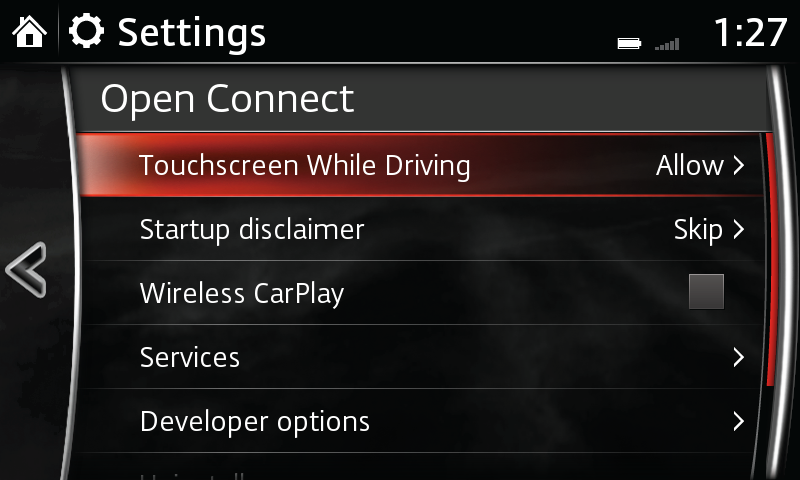
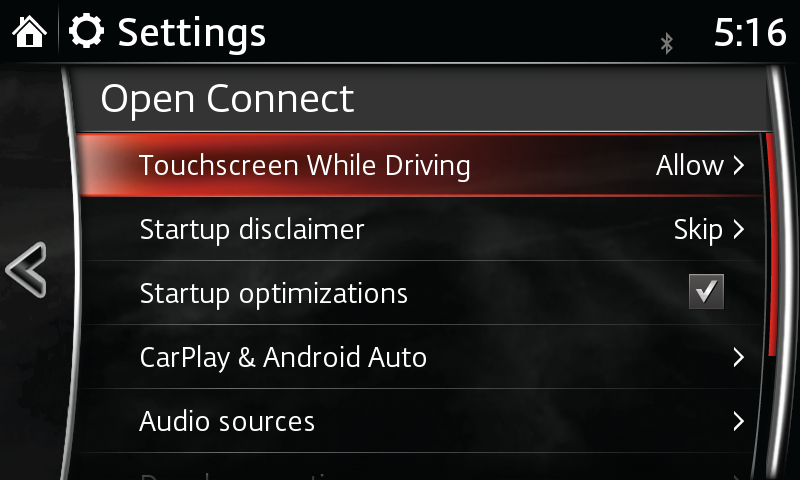
Add verified native 0.3.0-dev.19 Settings screenshots and provenance

diff --git a/docs/javascripts/nav-preview.js b/docs/javascripts/nav-preview.js
@@ -24,32 +24,27 @@
   // Resolve from this file, including on nested pages and GitHub Pages subpaths.
   const assets = new URL("../assets/guide/", document.currentScript.src);
   const entry = ["settings-entry.png", "System tab → Open Connect"];
-  // Reuse reviewed captures only; the dev.19 group lists await native captures.
+  const settings = ["settings.png", "Open Connect settings"];
+  const phone = ["carplay-android-auto.png", "CarPlay & Android Auto"];
   const paths = {
-    "open-connect": [entry],
-    touchscreen: [entry, ["touch.png", "Touchscreen While Driving → Allow"]],
-    disclaimer: [entry, ["warning.png", "Startup disclaimer → Skip"]],
-    "wireless-setup": [entry,
+    "open-connect": [entry, settings],
+    touchscreen: [entry, settings, ["touch.png", "Touchscreen While Driving → Allow"]],
+    disclaimer: [entry, settings, ["warning.png", "Startup disclaimer → Skip"]],
+    "wireless-setup": [entry, settings, phone,
       ["wireless-enable.png", "Wireless CarPlay → Enable"],
       ["wireless-mode.png", "After a full restart: Devices → Wi-Fi → Apple CarPlay"]],
     "wireless-wifi": [["wireless-mode.png", "Devices → Wi-Fi → Apple CarPlay"]],
     "wireless-connect": [["wireless-mode.png", "First choose Apple CarPlay in Devices → Wi-Fi"]],
-    services: [entry],
-    "startup-optimizations": [entry],
-    "phone-connections": [entry],
-    "audio-sources": [entry],
-    "developer-options": [entry, ["developer-options.png", "Developer options"]],
-    uninstall: [entry, ["uninstall.png", "Uninstall confirmation"]],
+    services: [entry, settings, ["audio-sources-menu.png", "Audio sources"]],
+    "startup-optimizations": [entry, settings],
+    "phone-connections": [entry, settings, phone],
+    "audio-sources": [entry, settings, ["audio-sources-menu.png", "Audio sources"]],
+    "developer-options": [entry, settings, ["developer-options.png", "Developer options"]],
+    uninstall: [entry, settings, ["uninstall.png", "Uninstall confirmation"]],
     "version-info": [["settings-entry.png", "System tab → About (below Open Connect)"],
       ["version-info.png", "Version Information → OS Version"]],
   };
   const notes = {
-    "open-connect": "Open Connect now lists Startup optimizations, CarPlay & Android Auto, and Audio sources. Scroll down for Developer options, Uninstall and About.",
-    services: "Choose Startup optimizations in Open Connect, Android Auto under CarPlay & Android Auto, or DVD, Pandora and SiriusXM under Audio sources.",
-    "startup-optimizations": "Choose Startup optimizations in Open Connect.",
-    "phone-connections": "Choose CarPlay & Android Auto for Wireless CarPlay, Show CarPlay on connection, and Android Auto.",
-    "audio-sources": "Choose Audio sources for DVD, Pandora and SiriusXM.",
-    "wireless-setup": "In Open Connect, choose CarPlay & Android Auto → Wireless CarPlay. Then follow Mazda’s Wi-Fi and phone-pairing steps.",
     "wireless-connect": "After choosing Apple CarPlay here, return to Devices → Apple CarPlay, select your iPhone and choose Connect.",
   };
   const motion = matchMedia("(prefers-reduced-motion: reduce)");

diff --git a/docs/assets/guide/README.md b/docs/assets/guide/README.md
@@ -1,5 +1,32 @@
 # Guide image provenance
 
+## Reorganized Settings menu — November 24, 2026
+
+`settings.png`, `carplay-android-auto.png`, `audio-sources-menu.png`,
+`developer-options.png` and `startup-optimizations-confirm.png` are **unedited
+native 800×480** captures of **0.3.0-dev.19** on **74.00.324A NA/cmu150_NA**,
+reviewed for personal information, credentials, clipping and diagnostic
+overlays. Captured after a normal UI Update (`dev.18 → dev.19`) on kernel boot
+ID `4311a3f8…`, with Base/Startup optimizations, Wireless CarPlay and Show
+CarPlay on connection enabled. These are software UI verification captures on
+the bench, separate from real-car and physical Commander Dial qualification.
+
+Build: [CI 45542133658](https://github.com/aeharding/open-connect/actions/runs/45542133658),
+source [3a71ac10](https://github.com/aeharding/open-connect/tree/3a71ac105bf4bb006f6857925389fc7762529317).
+USB installer ZIP SHA256:
[1 lines of base64/hex data omitted]
+All 47 public payload manifest hashes matched.
+
+| Asset | SHA256 |
+| --- | --- |
[5 lines of base64/hex data omitted]
+
+Private originals: `runs/dev19-car-test-20261124/{settings-top.png,carplay-android-auto.png,audio-sources.png,developer-options.png,startup-optimizations-confirm.png}`.
+
 ## Version Information — November 24, 2026
 
 `version-info.png` is a direct, unedited native **800×480** capture of Mazda’s

diff --git a/docs/index.md b/docs/index.md
@@ -11,8 +11,8 @@ Plug-and-play USB install.
 <p class="oc-availability">Still in testing. No public download yet, and no real-car installations have been validated. Currently for North American version <strong>74.00.324</strong> only. Startup gains vary by configuration; faster startup than stock is not established.</p>
 
 <figure class="oc-screen oc-screen--lead">
-  <div class="oc-screen-frame"><img src="assets/guide/settings-entry.png" alt="Mazda Settings System tab with Open Connect above About." width="800" height="480"></div>
-  <figcaption><span class="oc-nav-path" data-walkthrough="open-connect">Settings → System → Open Connect</span> — scroll down to Open Connect.</figcaption>
+  <div class="oc-screen-frame"><img src="assets/guide/settings.png" alt="Open Connect settings showing Touchscreen While Driving, Startup disclaimer, Startup optimizations, CarPlay and Android Auto, and Audio sources." width="800" height="480"></div>
+  <figcaption><span class="oc-nav-path" data-walkthrough="open-connect">Settings → System → Open Connect</span> (0.3.0-dev.19).</figcaption>
 </figure>
 
 ## Features

diff --git a/docs/settings.md b/docs/settings.md
@@ -5,8 +5,8 @@ Change your preferences in Mazda’s own menus. Choices save automatically.
 Open **<span class="oc-nav-path" data-walkthrough="open-connect">Mazda Settings → System → Open Connect</span>**, just above **About**.
 
 <figure class="oc-screen">
-  <div class="oc-screen-frame"><img src="assets/guide/settings-entry.png" alt="Mazda Settings, System tab, with Open Connect selected above About." width="800" height="480"></div>
-  <figcaption>Scroll down in the System tab to find Open Connect.</figcaption>
+  <div class="oc-screen-frame"><img src="assets/guide/settings.png" alt="Open Connect settings showing Touchscreen While Driving, Startup disclaimer, Startup optimizations, CarPlay and Android Auto, and Audio sources." width="800" height="480"></div>
+  <figcaption>Open Connect settings (0.3.0-dev.19).</figcaption>
 </figure>
 
 <span id="change-a-preference"></span>
